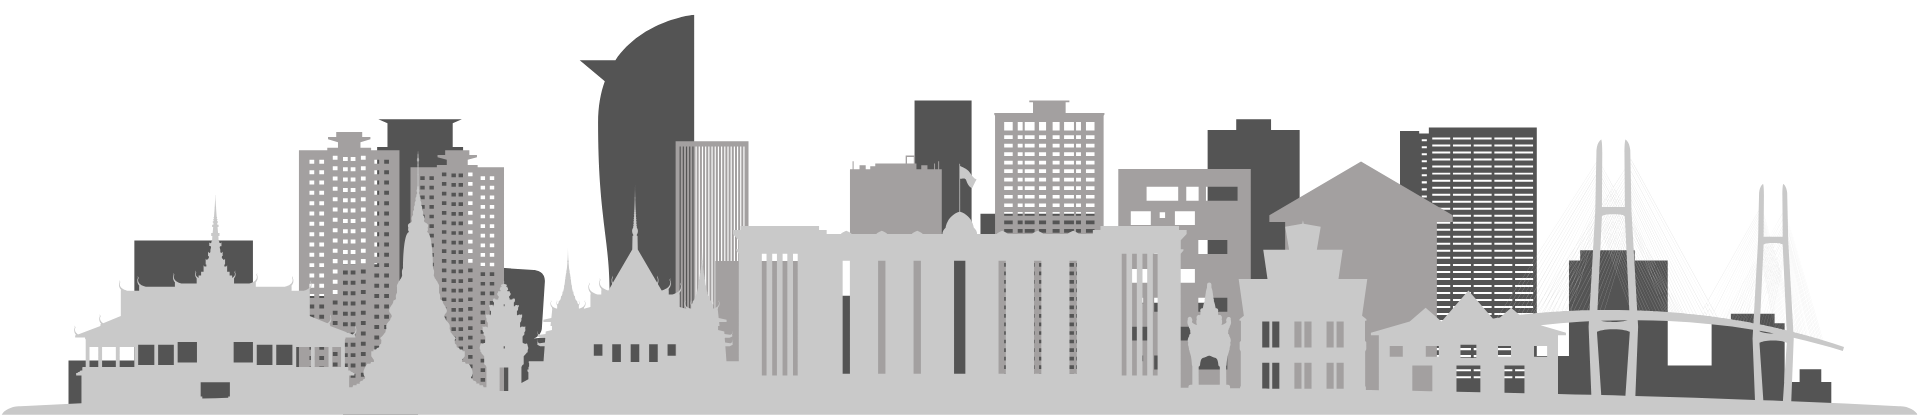
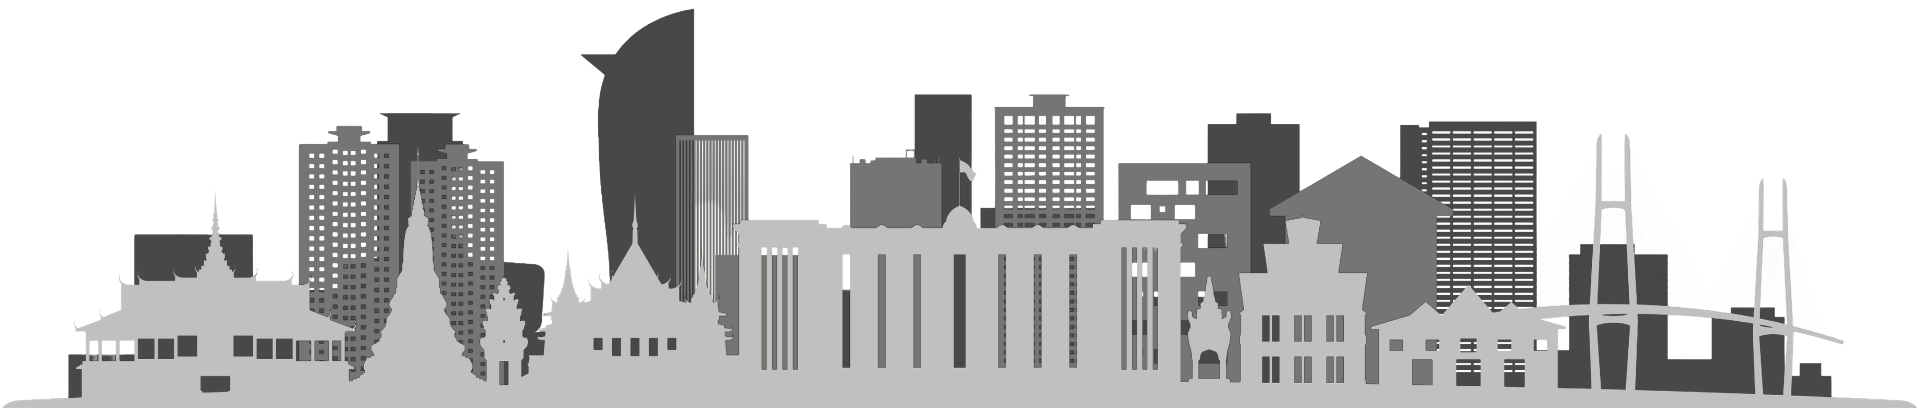
heh

diff --git a/css/index.css b/css/index.css
@@ -61,31 +61,31 @@ body { font-family:'Poppins',sans-serif; min-height:100vh; background:var(--bg);
 .bg-artwork-main {
   top: 15%;
   right: 5%;
-  width: clamp(300px, 25vw, 400px);
+  width: clamp(400px, 25vw, 400px);
   height: auto;
   transform: rotate(-5deg);
   opacity: 1;
-  animation: artworkFloat1 20s ease-in-out infinite;
+  animation: artworkFloat1 10s ease-in-out infinite;
 }
 
 .bg-artwork-secondary {
-  bottom: 20%;
+  top: 40%;
   left: 3%;
-  width: clamp(150px, 20vw, 350px);
+  width: clamp(400px, 20vw, 400px);
   height: auto;
   transform: rotate(8deg);
   opacity: 1;
-  animation: artworkFloat2 25s ease-in-out infinite;
+  animation: artworkFloat2 10s ease-in-out infinite;
 }
 
-.bg-artwork-hi {
-  top: 50%;
-  left: 50%;
-  width: clamp(500px, 22vw, 380px);
+.bg-artwork-third {
+  top: 60%;
+  left: 55%;
+  width: clamp(150px, 25vw, 250px);
   height: auto;
   transform: translate(-50%, -50%) rotate(-3deg);
   opacity: 1;
-  animation: artworkFloat3 30s ease-in-out infinite;
+  animation: artworkFloat1 10s ease-in-out infinite;
 }
 
 /* Subtle floating animations for background artwork */
@@ -107,22 +107,24 @@ body { font-family:'Poppins',sans-serif; min-height:100vh; background:var(--bg);
 /* Reduce opacity on mobile for better performance and visibility */
 @media (max-width: 768px) {
   .bg-artwork-main {
-    width: clamp(150px, 30vw, 200px);
+    width: clamp(200px, 25vw, 200px);
     opacity: 1;
-    top: 10%;
-    right: 2%;
+    top: 15%;
+    right: 1%;
   }
   
   .bg-artwork-secondary {
-    width: clamp(100px, 25vw, 180px);
+    width: clamp(200px, 25vw, 200px);
     opacity: 1;
-    bottom: 15%;
+    top: 45%;
     left: 1%;
   }
   
-  .bg-artwork-hi {
-    width: clamp(150px, 28vw, 200px);
+  .bg-artwork-third {
+    width: clamp(130px, 28vw, 150px);
+    top: 75%;
     opacity: 1;
+    right:1%;
   }
 }
 

diff --git a/css/login.css b/css/login.css
@@ -49,6 +49,8 @@ body {
 .bg-grid {
   display: none;
 }
+
+
 @keyframes orb1 { 0%,100%{transform:translate(0,0)} 50%{transform:translate(28px,-22px)} }
 @keyframes orb2 { 0%,100%{transform:translate(0,0)} 50%{transform:translate(-22px,28px)} }
 @keyframes orb3 { 0%,100%{transform:translate(0,0)} 50%{transform:translate(18px,-28px)} }
@@ -84,6 +86,21 @@ body {
   border: 1px solid rgba(255,255,255,.06); pointer-events: none;
   box-shadow: 0 0 0 60px rgba(255,255,255,.025), 0 0 0 120px rgba(255,255,255,.015);
 }
+
+.lp-artwork-bottom {
+  position: absolute;
+  bottom: 0;
+  left: 0;
+  width: 100%;
+  height: auto;
+  opacity: 1;
+  pointer-events: none;
+  z-index: 0;
+  object-fit: cover;
+  object-position: bottom center;
+}
+
+
 .lp-inner { position: relative; z-index: 1; width: 100%; }
 
 .lp-logo { display: flex; align-items: center; gap: 14px; margin-bottom: 44px; }

diff --git a/css/gei.css b/css/gei.css
@@ -51,6 +51,23 @@ body::after {
 .sidebar-logo-text .sub { font-size:9px; font-weight:400; opacity:0.7; line-height:1.3; }
 .sidebar-nav  { flex:1; padding:14px 0; overflow-y:auto; }
 .nav-section  { padding:6px 18px 3px; font-size:9px; font-weight:600; color:rgba(255,255,255,0.35); letter-spacing:2px; text-transform:uppercase; }
+/* ── Sidebar Artwork ── */
+.sidebar-artwork {
+  padding: 0 18px;
+  margin-top: auto;
+  flex-shrink: 0;
+}
+
+.sidebar-artwork-img {
+  width: 100%;
+  height: auto;
+  opacity: 0.8;
+  pointer-events: none;
+  display: block;
+  object-fit: contain;
+  max-height: 120px;
+}
+
 .nav-item {
   display:flex; align-items:center; gap:10px; padding:9px 18px; cursor:pointer;
   color:rgba(255,255,255,0.62); font-size:12.5px; font-weight:500;

diff --git a/index.html b/index.html
@@ -17,8 +17,8 @@
   <div class="bg-orb bg-orb-3"></div>
   <div class="bg-grid"></div>
   <img src="images/artwork_2.png" alt="" class="bg-artwork bg-artwork-main">
-  <img src="images/artwork_3.png" alt="" class="bg-artwork bg-artwork-hi">
-  <img src="images/artwork_1.png" alt="" class="bg-artwork bg-artwork-secondary">
+  <img src="images/artwork_1.png" alt="" class="bg-artwork bg-artwork-third">
+  <img src="images/artwork_2.png" alt="" class="bg-artwork bg-artwork-secondary">
 </div>
 
 <!-- ══════════════════════════════ NAV ══════════════════════════════ -->

diff --git a/css/chatbot.css b/css/chatbot.css
@@ -73,7 +73,21 @@ body::before {
 .ns-item svg    { flex-shrink:0; stroke:currentColor; }
 .ns-footer { padding:16.5px 16px; border-top:1px solid rgba(255,255,255,0.07); }
 .ns-footer p { font-size:8.5px; color:rgba(255,255,255,0.28); line-height:1.6; }
+.sidebar-artwork {
+  padding: 0 18px;
+  margin-top: auto;
+  flex-shrink: 0;
+}
 
+.sidebar-artwork-img {
+  width: 100%;
+  height: auto;
+  opacity: 0.8;
+  pointer-events: none;
+  display: block;
+  object-fit: contain;
+  max-height: 120px;
+}
 /* ════ COLUMN 2: CHAT HISTORY PANEL ════ */
 .history-panel {
   width:var(--hist-w); flex-shrink:0;

diff --git a/css/user.css b/css/user.css
@@ -67,7 +67,21 @@ body::after {
 }
 .sidebar-footer  { padding:10px 18px; border-top:1px solid rgba(255,255,255,0.08); }
 .sidebar-footer p{ font-size:9px; color:rgba(255,255,255,0.3); line-height:1.6; }
+.sidebar-artwork {
+  padding: 0 18px;
+  margin-top: auto;
+  flex-shrink: 0;
+}
 
+.sidebar-artwork-img {
+  width: 100%;
+  height: auto;
+  opacity: 0.8;
+  pointer-events: none;
+  display: block;
+  object-fit: contain;
+  max-height: 120px;
+}
 /* ── Sidebar close button — desktop hidden, mobile shown ── */
 .sidebar-close-btn { display:none; }
 

diff --git a/css/kumu_eda.css b/css/kumu_eda.css
@@ -75,6 +75,21 @@ body::after {
 .sidebar-footer  { padding:10px 18px; border-top:1px solid rgba(255,255,255,.08); }
 .sidebar-footer p{ font-size:9px; color:rgba(255,255,255,.3); line-height:1.6; }
 .sidebar-close-btn { display:none; }
+.sidebar-artwork {
+  padding: 0 18px;
+  margin-top: auto;
+  flex-shrink: 0;
+}
+
+.sidebar-artwork-img {
+  width: 100%;
+  height: auto;
+  opacity: 0.8;
+  pointer-events: none;
+  display: block;
+  object-fit: contain;
+  max-height: 120px;
+}
 
 @media (max-width: 768px) {
   .sidebar-logo { flex-wrap:nowrap; }

diff --git a/css/SNA.css b/css/SNA.css
@@ -71,6 +71,21 @@ body::after {
 }
 .sidebar-footer  { padding:10px 18px; border-top:1px solid rgba(255,255,255,0.08); }
 .sidebar-footer p{ font-size:9px; color:rgba(255,255,255,0.3); line-height:1.6; }
+.sidebar-artwork {
+  padding: 0 18px;
+  margin-top: auto;
+  flex-shrink: 0;
+}
+
+.sidebar-artwork-img {
+  width: 100%;
+  height: auto;
+  opacity: 0.8;
+  pointer-events: none;
+  display: block;
+  object-fit: contain;
+  max-height: 120px;
+}
 
 /* ── Topbar ── */
 .topbar {

diff --git a/css/report.css b/css/report.css
@@ -70,6 +70,21 @@ body::after {
 .sidebar-footer p{ font-size:9px; color:rgba(255,255,255,0.3); line-height:1.6; }
 /* replace with: */
 .sidebar-close-btn { display:none; }
+.sidebar-artwork {
+  padding: 0 18px;
+  margin-top: auto;
+  flex-shrink: 0;
+}
+
+.sidebar-artwork-img {
+  width: 100%;
+  height: auto;
+  opacity: 0.8;
+  pointer-events: none;
+  display: block;
+  object-fit: contain;
+  max-height: 120px;
+}
 
 @media (max-width: 768px) {
   .sidebar-logo { flex-wrap:nowrap; }

diff --git a/chatbot.html b/chatbot.html
@@ -59,8 +59,11 @@
       Log Out
     </a>
   </nav>
+  <div class="sidebar-artwork">
+      <img src="images/artwork_3.png" alt="" class="sidebar-artwork-img">
+    </div>
   <div class="ns-footer">
-    <p>© 2026 Khmer Enterprise<br>All rights reserved</p>
+    <p>© 2026 All rights reserved<br>◉ Khmer Enterprise</p>
   </div>
 </aside>
 

diff --git a/GEI.html b/GEI.html
@@ -87,6 +87,9 @@
         Log Out
       </div>
     </nav>
+    <div class="sidebar-artwork">
+      <img src="images/artwork_3.png" alt="" class="sidebar-artwork-img">
+    </div>
     <div class="sidebar-footer">
       <p>© 2026 All rights reserved <br>◉ Khmer Enterprise </p>
     </div>

diff --git a/SNA.html b/SNA.html
@@ -85,6 +85,9 @@
         Log Out
       </div>
     </nav>
+    <div class="sidebar-artwork">
+      <img src="images/artwork_3.png" alt="" class="sidebar-artwork-img">
+    </div>
     <div class="sidebar-footer">
       <p>© 2026 All rights reserved <br>◉ Khmer Enterprise </p>
     </div>
